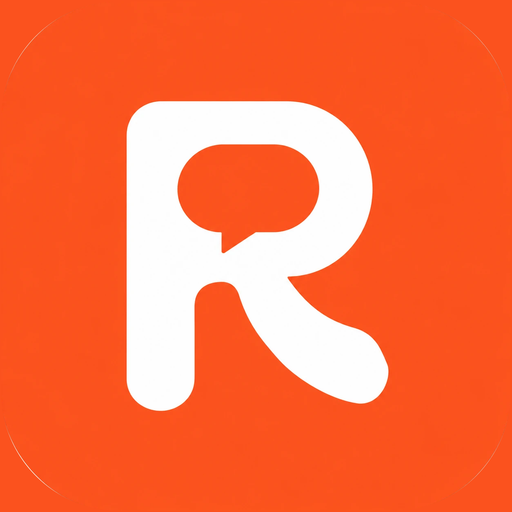
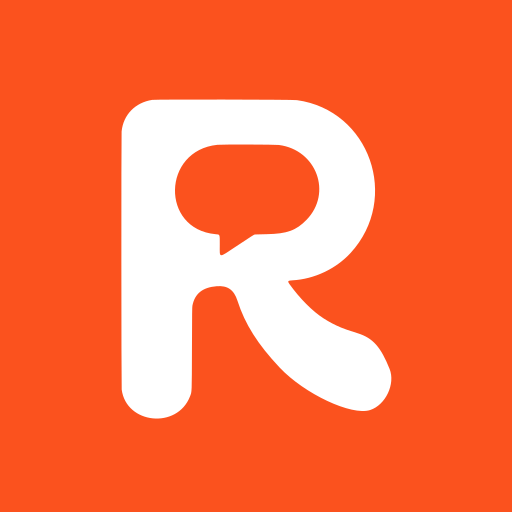
Ringo logosu vektöre çevrildi (SVG), tüm boyutlar vektörden üretildi; sahne çerçevesi kenar yumuşatma; alt bilgi: Ringo bir MoonWorks ürünüdür

diff --git a/src/app/(app)/layout.tsx b/src/app/(app)/layout.tsx
@@ -49,7 +49,7 @@ export default async function AppLayout({ children }: { children: React.ReactNod
           <div className="tools">
             <span className="ringo-tag" title="Ringo">
               {/* eslint-disable-next-line @next/next/no-img-element */}
-              <img src="/ringo-logo.png" alt="" aria-hidden="true" width={22} height={22} />
+              <img src="/ringo-64.png" alt="" aria-hidden="true" width={22} height={22} />
               <span>Ringo</span>
             </span>
             <UserMenu name={member.full_name} roleLabel={isManager ? "Yönetici" : "Çalışan"} signOutAction={signOutAction} />

diff --git a/src/components/shell/MadeBy.tsx b/src/components/shell/MadeBy.tsx
@@ -9,8 +9,8 @@ export function MadeBy() {
     <div className={s.madeby}>
       <span className={s.product}>
         {/* eslint-disable-next-line @next/next/no-img-element */}
-        <img src="/ringo-logo.png" alt="" aria-hidden="true" width={16} height={16} />
-        Ringo
+        <img src="/ringo-64.png" alt="" aria-hidden="true" width={16} height={16} />
+        Ringo bir
       </span>
       <a
         className={s.link}

diff --git a/src/components/scene/scene.module.css b/src/components/scene/scene.module.css
@@ -384,6 +384,9 @@
   width: 100%;
   height: 100%;
   object-fit: cover;
+  /* Kenar yumuşatması: üst kabın overflow kırpması hareket sırasında tırtıklı kalabiliyor */
+  border-radius: 50%;
+  clip-path: circle(50%);
 }
 
 /* giriş koreografisi: logo oturur, halkalar sırayla çizilir, ışık noktaları belirir */

diff --git a/src/app/globals.css b/src/app/globals.css
@@ -180,10 +180,14 @@ html {
   flex: none;
   overflow: hidden;
 }
+.logo-mark:has(img) {
+  background: transparent;
+}
 .logo-mark img {
   width: 100%;
   height: 100%;
   object-fit: cover;
+  border-radius: inherit;
 }
 .logo-name {
   white-space: nowrap;

diff --git a/src/components/shell/MadeBy.module.css b/src/components/shell/MadeBy.module.css
@@ -3,7 +3,7 @@
   flex-wrap: wrap;
   align-items: center;
   justify-content: center;
-  gap: 4px 12px;
+  gap: 4px 6px;
   padding: 28px 16px 4px;
 }
 .link {
